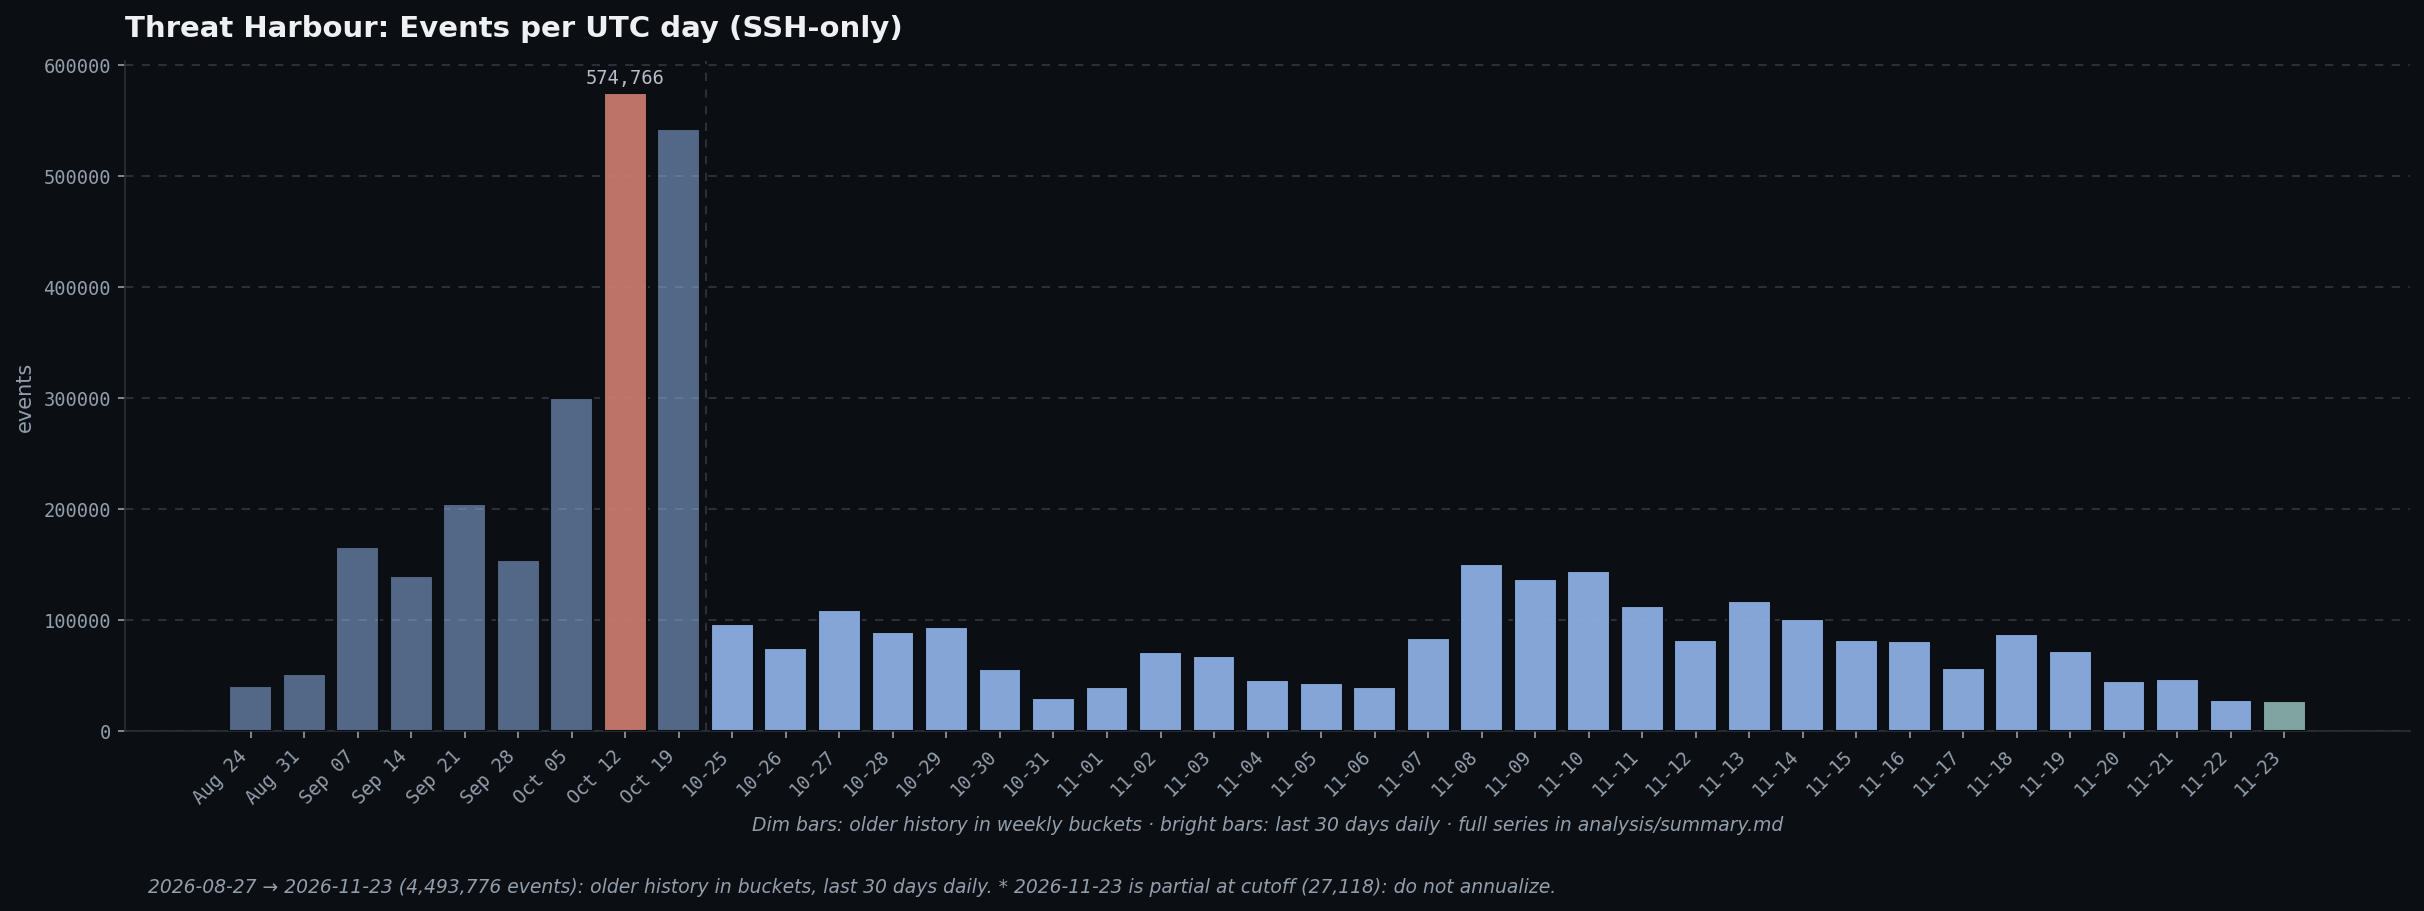
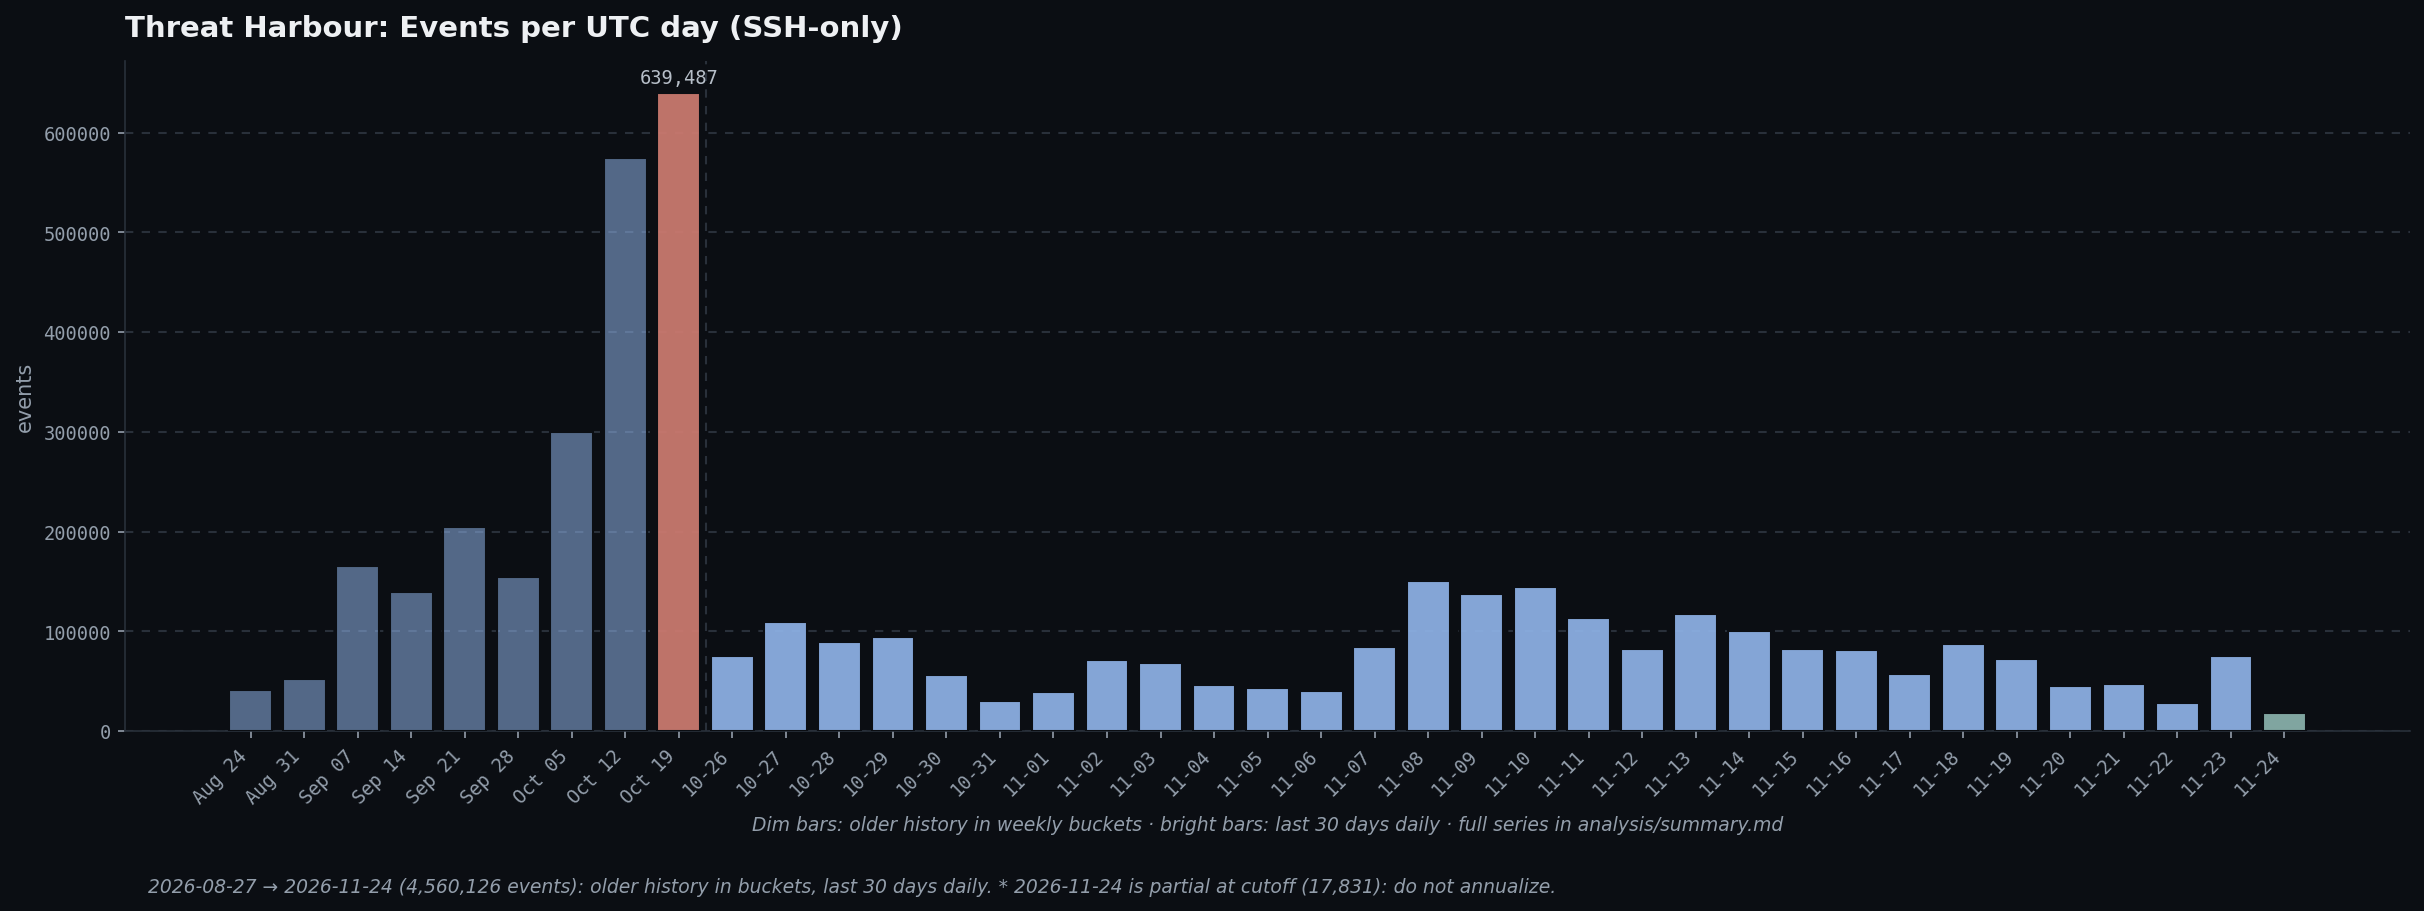
Daily metrics: 4,560,126 events (automated)

diff --git a/analysis/summary.md b/analysis/summary.md
@@ -1,13 +1,13 @@
-# Analysis summary (rolling snapshot, cutoff 2026-11-23T06:17:59Z)
+# Analysis summary (rolling snapshot, cutoff 2026-11-24T08:54:11Z)
 
 Sensor is **still running**: this file regenerates every 24 hours.
 Observation: `2026-08-27` → `ongoing`. Numbers below are a snapshot at
-`2026-11-23T06:17:59Z` (4,493,776 events).
+`2026-11-24T08:54:11Z` (4,560,126 events).
 
 ## Source
 
 - Cowrie JSONL on sensor: `/home/jack/honeypot/var/log/cowrie/cowrie.json*`
-  (89 files, 45 malformed lines): the same files Promtail ships to Loki
+  (90 files, 45 malformed lines): the same files Promtail ships to Loki
   (`job="cowrie"`).
 - Parser: `scripts/parse_remote.py` (stdlib only, deployed fresh each run);
   renderer: `scripts/render.py`. Aggregates only. Raw logs stay on the
@@ -17,22 +17,21 @@ Observation: `2026-08-27` → `ongoing`. Numbers below are a snapshot at
 
 | Metric | Value |
 |---|---|
-| Total events | 4,493,776 |
-| Unique source IPs | 10,369 |
-| Sessions (`cowrie.session.connect`) | 572,638 |
-| SSH events | 4,493,776 (100%) |
-| Fake successful logins (`cowrie.login.success`) | 517,659 |
-| Failed logins | 1,664 |
-| Command-input events | 523,549 (+23,696 `command.failed`) |
+| Total events | 4,560,126 |
+| Unique source IPs | 11,008 |
+| Sessions (`cowrie.session.connect`) | 579,120 |
+| SSH events | 4,560,126 (100%) |
+| Fake successful logins (`cowrie.login.success`) | 523,739 |
+| Failed logins | 1,737 |
+| Command-input events | 545,076 (+25,512 `command.failed`) |
 | File-download events | 3,168 |
 | File-upload events | 1,859 |
-| Session duration median (n=572,378 matched close) | 2.3s; 520,106 < 10s; max ~18,022s |
+| Session duration median (n=578,860 matched close) | 2.3s; 525,965 < 10s; max ~18,022s |
 
 ## Events per UTC day
 
 | Day (UTC) | Events |
 |---|---|
-| `2026-10-25` | 96,986 |
 | `2026-10-26` | 75,317 |
 | `2026-10-27` | 109,420 |
 | `2026-10-28` | 89,074 |
@@ -61,10 +60,11 @@ Observation: `2026-08-27` → `ongoing`. Numbers below are a snapshot at
 | `2026-11-20` | 45,020 |
 | `2026-11-21` | 47,033 |
 | `2026-11-22` | 28,407 |
-| `2026-11-23` | 27,118 |
+| `2026-11-23` | 75,637 |
+| `2026-11-24` | 17,831 |
 
 <details>
-<summary>Older days (59 days, click to expand)</summary>
+<summary>Older days (60 days, click to expand)</summary>
 
 | Day (UTC) | Events |
 |---|---|
@@ -127,54 +127,55 @@ Observation: `2026-08-27` → `ongoing`. Numbers below are a snapshot at
 | `2026-10-22` | 85,522 |
 | `2026-10-23` | 94,483 |
 | `2026-10-24` | 93,187 |
+| `2026-10-25` | 96,986 |
 
 </details>
 
-`2026-11-23` is partial at cutoff: do not annualize.
+`2026-11-24` is partial at cutoff: do not annualize.
 
 ### Top usernames
 
 | # | Value | Tries |
 |---|---|---|
-| 1 | `root` | 201,210 |
-| 2 | `ubuntu` | 58,523 |
-| 3 | `admin` | 35,849 |
+| 1 | `root` | 203,337 |
+| 2 | `ubuntu` | 58,649 |
+| 3 | `admin` | 36,235 |
 | 4 | `y2unix` | 18,853 |
-| 5 | `user` | 18,300 |
-| 6 | `deploy` | 3,895 |
-| 7 | `test` | 3,041 |
+| 5 | `user` | 18,420 |
+| 6 | `deploy` | 3,970 |
+| 7 | `test` | 3,116 |
 | 8 | `345gs5662d34` | 2,126 |
-| 9 | `user1` | 2,078 |
-| 10 | `claude` | 1,807 |
+| 9 | `user1` | 2,119 |
+| 10 | `claude` | 1,840 |
 
 ### Top passwords
 
 | # | Value | Tries |
 |---|---|---|
-| 1 | `123456` | 13,661 |
-| 2 | `123` | 7,141 |
-| 3 | `1234` | 6,537 |
-| 4 | `12345678` | 3,951 |
-| 5 | `1` | 3,253 |
-| 6 | `root` | 2,999 |
-| 7 | `password` | 2,945 |
-| 8 | `12345` | 2,907 |
-| 9 | `admin` | 2,818 |
-| 10 | `123456789` | 2,226 |
+| 1 | `123456` | 13,977 |
+| 2 | `123` | 7,299 |
+| 3 | `1234` | 6,686 |
+| 4 | `12345678` | 4,052 |
+| 5 | `1` | 3,317 |
+| 6 | `root` | 3,059 |
+| 7 | `password` | 3,039 |
+| 8 | `12345` | 2,985 |
+| 9 | `admin` | 2,887 |
+| 10 | `123456789` | 2,290 |
 
 ### Top commands
 
 | # | Value | Tries |
 |---|---|---|
-| 1 | `uname -s -v -n -r -m` | 253,506 |
+| 1 | `uname -s -v -n -r -m` | 257,606 |
 | 2 | `echo -e "\x6F\x6B"` | 11,273 |
-| 3 | `hostname` | 6,942 |
-| 4 | `uname -a` | 5,155 |
+| 3 | `hostname` | 6,964 |
+| 4 | `uname -a` | 5,172 |
 | 5 | `echo xsec` | 4,818 |
-| 6 | `whoami` | 4,041 |
+| 6 | `whoami` | 4,060 |
 | 7 | `export PATH=/usr/local/sbin:/usr/local/bin:/usr/sbin:/usr/bi…` | 3,672 |
-| 8 | `/bin/./uname -s -v -n -r -m` | 3,531 |
-| 9 | `pwd` | 3,328 |
+| 8 | `/bin/./uname -s -v -n -r -m` | 3,539 |
+| 9 | `pwd` | 3,338 |
 | 10 | `cd ~; chattr -ia .ssh; lockr -ia .ssh` | 3,110 |
 
 ### Command categories
@@ -182,12 +183,12 @@ Observation: `2026-08-27` → `ongoing`. Numbers below are a snapshot at
 | Category | Events |
 |---|---|
 | `destructive` | 7,542 |
-| `discovery` | 293,104 |
+| `discovery` | 297,351 |
 | `downloader` | 94 |
 | `empty` | 9 |
-| `other` | 68,031 |
+| `other` | 73,491 |
 | `persistence-privilege` | 3,277 |
-| `shell-exec` | 151,492 |
+| `shell-exec` | 163,312 |
 
 ## Limitations that shape these numbers
 

diff --git a/README.md b/README.md
@@ -21,28 +21,28 @@ Use it to:
 No attribution, no hype: just counts of what hit the sensor, refreshed daily.
 
 <!-- METRICS:START -->
-## Collected Data: refreshed every 24 hours (last run `2026-11-23 UTC`)
+## Collected Data: refreshed every 24 hours (last run `2026-11-24 UTC`)
 
 `2026-08-27` → `ongoing` · Cowrie `3.0.13` · SSH-only · `ap-hyderabad-1`.
 
 | Total events | Unique IPs | Sessions | Fake logins | Commands | Downloads (+uploads) |
 |---|---|---|---|---|---|
-| `4,493,776` | `10,369` | `572,638` | `517,659` / 1,664 failed | `523,549` (+23,696 failed) | `3,168` (+1,859 uploads) |
+| `4,560,126` | `11,008` | `579,120` | `523,739` / 1,737 failed | `545,076` (+25,512 failed) | `3,168` (+1,859 uploads) |
 
 | # | Top username | Top password | Top command |
 |---|---|---|---|
-| 1 | `root` (201,210) | `123456` (13,661) | `uname -s -v -n -r -m` (253,506) |
-| 2 | `ubuntu` (58,523) | `123` (7,141) | `echo -e "\x6F\x6B"` (11,273) |
-| 3 | `admin` (35,849) | `1234` (6,537) | `hostname` (6,942) |
-| 4 | `y2unix` (18,853) | `12345678` (3,951) | `uname -a` (5,155) |
-| 5 | `user` (18,300) | `1` (3,253) | `echo xsec` (4,818) |
+| 1 | `root` (203,337) | `123456` (13,977) | `uname -s -v -n -r -m` (257,606) |
+| 2 | `ubuntu` (58,649) | `123` (7,299) | `echo -e "\x6F\x6B"` (11,273) |
+| 3 | `admin` (36,235) | `1234` (6,686) | `hostname` (6,964) |
+| 4 | `y2unix` (18,853) | `12345678` (4,052) | `uname -a` (5,172) |
+| 5 | `user` (18,420) | `1` (3,317) | `echo xsec` (4,818) |
 
 Key findings:
 
 - Median session `2.3s` (91% under 10s): mostly automated scanning, not humans.
-- `56%` of commands are discovery/fingerprinting (`uname`, `hostname`, `whoami`).
+- `55%` of commands are discovery/fingerprinting (`uname`, `hostname`, `whoami`).
 - Repeated persistence probes writing toward `authorized_keys` (hash `a8460f44……`, content withheld).
-- Busiest /16 by volume: `109.160.0.0/16` (1,787,004 events): volume only, never attribution.
+- Busiest /16 by volume: `109.160.0.0/16` (1,807,576 events): volume only, never attribution.
 
 ![Session funnel](diagrams/session-funnel.png)
 ![Activity timeline](diagrams/activity-timeline.png)

diff --git a/evidence/manifest.md b/evidence/manifest.md
@@ -1,12 +1,12 @@
-# Evidence manifest (rolling snapshot, cutoff 2026-11-23T06:17:59Z)
+# Evidence manifest (rolling snapshot, cutoff 2026-11-24T08:54:11Z)
 
 Raw Cowrie logs are **retained on the sensor only** and are not published.
 This manifest lets a reviewer re-derive `analysis/metrics.json`.
 
 ## Dataset
 
-- Host path: `/home/jack/honeypot/var/log/cowrie/cowrie.json*` (89 files)
-- Total lines: 4,493,776 (45 malformed)
+- Host path: `/home/jack/honeypot/var/log/cowrie/cowrie.json*` (90 files)
+- Total lines: 4,560,126 (45 malformed)
 - Cowrie: `3.0.13`
 - Collector: Promtail `2.9.4` → Loki `2.9.4` (`job="cowrie"`), Grafana `10.2.3`
 
@@ -14,7 +14,7 @@ This manifest lets a reviewer re-derive `analysis/metrics.json`.
 
 | File | Lines |
 |---|---|
-| `cowrie.json` | 27,118 |
+| `cowrie.json` | 17,831 |
 | `cowrie.json.2026-08-27` | 964 |
 | `cowrie.json.2026-08-28` | 15,483 |
 | `cowrie.json.2026-08-29` | 17,457 |
@@ -103,6 +103,7 @@ This manifest lets a reviewer re-derive `analysis/metrics.json`.
 | `cowrie.json.2026-11-20` | 45,020 |
 | `cowrie.json.2026-11-21` | 47,033 |
 | `cowrie.json.2026-11-22` | 28,407 |
+| `cowrie.json.2026-11-23` | 75,637 |
 
 ## What is / is not in this repo
 
